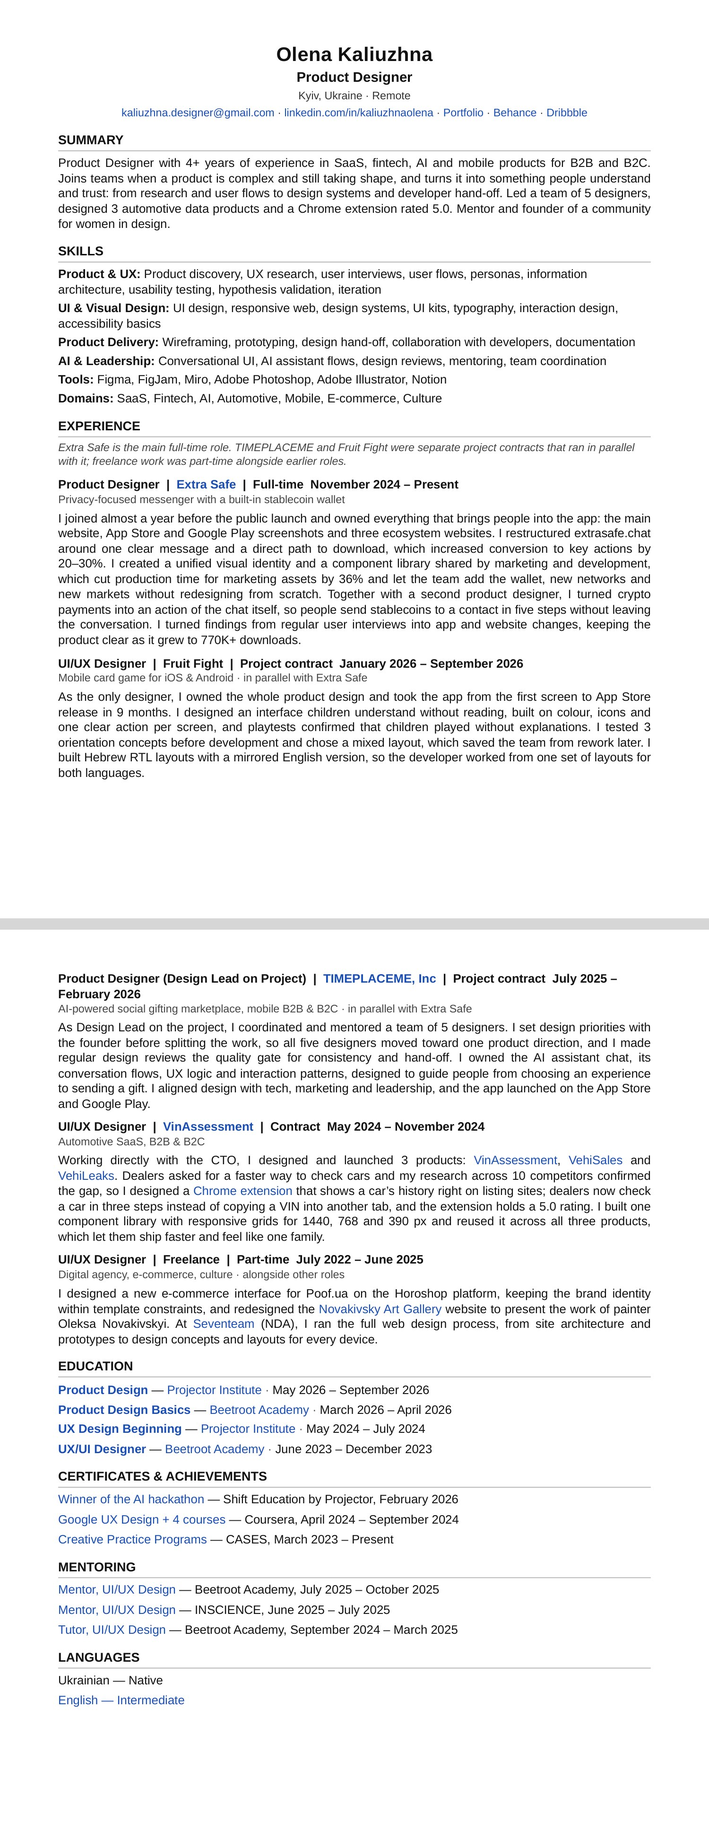
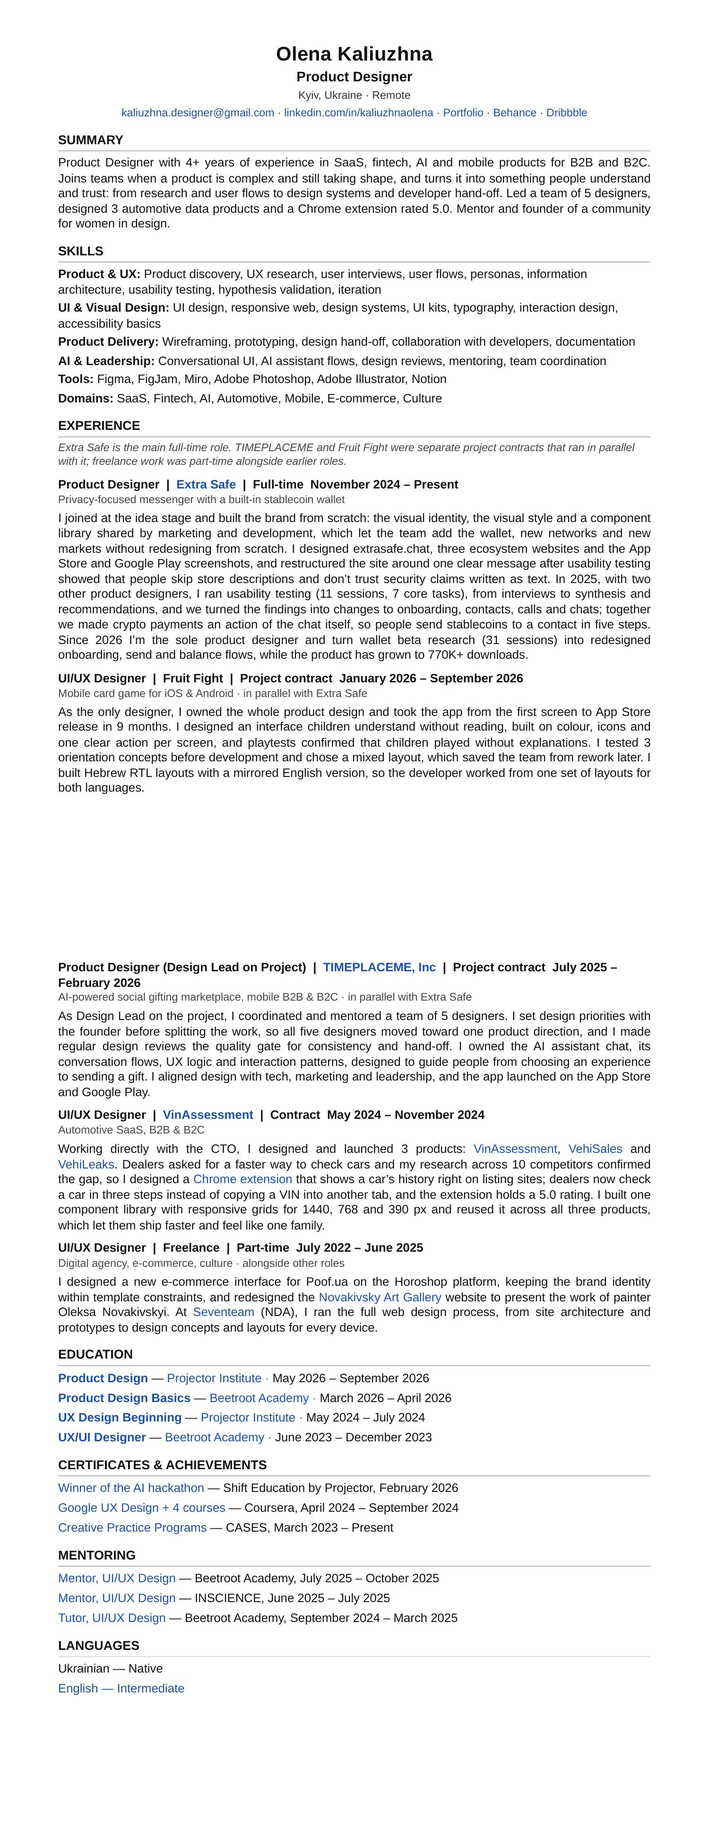
Add files via upload

diff --git a/case-extra-safe.html b/case-extra-safe.html
@@ -8,7 +8,7 @@
 <link rel="preconnect" href="https://fonts.googleapis.com">
 <link rel="preconnect" href="https://fonts.gstatic.com" crossorigin>
 <link rel="stylesheet" href="https://fonts.googleapis.com/css2?family=Inter:wght@400;500;600&family=Onest:wght@500;600&family=JetBrains+Mono:wght@400;500&display=swap">
-<link rel="stylesheet" href="styles.css?v=202610181628">
+<link rel="stylesheet" href="styles.css?v=202610272005">
 <script>try{var t=localStorage.getItem('ok-theme');if(t)document.documentElement.setAttribute('data-theme',t);}catch(e){}</script>
 </head>
 <body>
@@ -31,9 +31,9 @@
     <div class="wrap">
       <div class="crumbs mono"><a href="index.html#work">Cases</a><span>/</span><span>Extra Safe</span></div>
       <h1>Designing clarity across a complex fintech and communication ecosystem</h1>
-      <p class="lede">Extra Safe combines private communication, identity and financial functionality in one product ecosystem. My role was to help make that complexity understandable, consistent and usable across multiple surfaces.</p>
+      <p class="lede">Extra Safe is a privacy-first messenger with a built-in stablecoin wallet. I joined at the idea stage, built its brand from scratch, and today I lead the whole product as its sole designer: app, wallet, websites and design system.</p>
       <div class="chips"><span class="chip">Fintech</span><span class="chip">Product ecosystem</span><span class="chip">UX/UI</span><span class="chip">Design systems</span></div>
-      <div class="facts"><div class="fact"><span class="mono">Role</span><b>Product Designer · product UX, ecosystem, design system</b></div><div class="fact"><span class="mono">Company</span><b>Extra Safe · by Norionsoft OÜ, Estonia</b></div><div class="fact"><span class="mono">Timeline</span><b>Nov 2024 — present</b></div><div class="fact"><span class="mono">Platforms</span><b>Web · iOS · Android · Desktop</b></div></div>
+      <div class="facts"><div class="fact"><span class="mono">Role</span><b>Product Designer · sole designer since 2026</b></div><div class="fact"><span class="mono">Company</span><b>Extra Safe · by Norionsoft OÜ, Estonia</b></div><div class="fact"><span class="mono">Timeline</span><b>Nov 2024 — present</b></div><div class="fact"><span class="mono">Platforms</span><b>Web · iOS · Android · Desktop</b></div></div>
       <div class="ext-links"><a class="btn" href="https://www.extrasafe.chat/" target="_blank" rel="noopener">Visit extrasafe.chat ↗</a><a class="btn ghost store" href="https://apps.apple.com/app/id6745936574" target="_blank" rel="noopener" aria-label="Download Extra Safe on App Store"><svg viewBox="0 0 24 24" fill="none" stroke="currentColor" stroke-width="1.7" stroke-linecap="round" stroke-linejoin="round" aria-hidden="true"><rect x="6.5" y="2.5" width="11" height="19" rx="2.5"/><path d="M12 7.5v7M9 11.8l3 3 3-3"/><path d="M10.5 18.5h3"/></svg>App Store</a><a class="btn ghost store" href="https://play.google.com/store/apps/details?id=com.extrasafe.chat.app" target="_blank" rel="noopener" aria-label="Download Extra Safe on Google Play"><svg viewBox="0 0 24 24" fill="none" stroke="currentColor" stroke-width="1.7" stroke-linejoin="round" aria-hidden="true"><path d="M6 3.8v16.4c0 .8.9 1.3 1.6.9l13-8.2c.6-.4.6-1.3 0-1.7l-13-8.2C6.9 2.5 6 3 6 3.8z"/></svg>Google Play</a></div>
     </div>
   </section>
@@ -45,31 +45,31 @@
     </div>
   </section>
 
-  <nav class="case-nav" aria-label="Case sections"><div class="wrap"><a href="#overview">Overview</a><a href="#challenge">Challenge</a><a href="#decisions">Decisions</a><a href="#solution">Solution</a><a href="#impact">Impact</a><a href="#learnings">Learnings</a></div></nav>
+  <nav class="case-nav" aria-label="Case sections"><div class="wrap"><a href="#overview">Overview</a><a href="#challenge">Challenge</a><a href="#research">Research</a><a href="#decisions">Decisions</a><a href="#solution">Solution</a><a href="#impact">Impact</a><a href="#learnings">Learnings</a></div></nav>
 
   <section style="border-top:0;padding-top:clamp(40px,6vw,72px)">
     <div class="wrap">
       <article class="chapter" id="overview"><header><span class="mono">01</span><h2>Context</h2></header>
         <div class="prose">
-          <p><strong>Extra Safe is a privacy-focused messenger with a built-in stablecoin wallet.</strong> People chat, call and share files with end-to-end encryption, and when they need to pay someone, they send USDT or ETH right in the conversation. No copying wallet addresses, no switching apps.</p>
-          <p>I joined in November 2024, almost a year before the public launch, and stayed with the product as it grew from a private chat with calls into a messenger built on money rails.</p>
+          <p><strong>Extra Safe is a privacy-first messenger with a built-in stablecoin wallet.</strong> People chat, call and share files with end-to-end encryption, and when they need to pay someone, they send USDT and other stablecoins right in the conversation. No copying wallet addresses, no switching apps, no buying a separate coin to pay the network fee.</p>
+          <p>I joined in November 2024, when Extra Safe was an idea and a rough draft. I built the brand from scratch and stayed with the product as it grew from an encrypted chat with calls into a messenger where money moves like a message. Today I'm its sole product designer.</p>
           <ol class="timeline">
-            <li><span class="mono">2024</span><b>I join before launch</b><span>Encrypted chat, voice and video calls. First website and visual language.</span></li>
-            <li><span class="mono">Sep 2025</span><b>Public launch</b><span>iOS and Android apps go live worldwide.</span></li>
-            <li><span class="mono">Dec 2025</span><b>400K+ downloads in 13 weeks</b><span>Encrypted file and image sharing ships.</span></li>
-            <li><span class="mono">2026</span><b>Money in chat</b><span>Built-in wallet: send stablecoins in a message, gas paid in the same token. Collaboration with Ava Labs.</span></li>
+            <li><span class="mono">Nov 2024</span><b>I join at the idea stage</b><span>Brand identity, visual style and the first website, built from scratch.</span></li>
+            <li><span class="mono">2025</span><b>Testing and public launch</b><span>Usability testing with real people, then iOS and Android apps go live worldwide.</span></li>
+            <li><span class="mono">After launch</span><b>400K+ downloads in 10 weeks</b><span>Encrypted file and image sharing ships.</span></li>
+            <li><span class="mono">Sep 2026</span><b>Money in chat</b><span>The wallet goes live: send stablecoins in a message across six networks, with the fee paid in the same token. Collaboration with Ava Labs.</span></li>
             <li><span class="mono">Oct 2026</span><b>770K+ downloads, desktop</b><span>Windows and macOS apps, 9 languages, users in many countries.</span></li>
           </ol>
         </div></article>
 
       <article class="chapter" id="challenge"><header><span class="mono">02</span><h2>The challenge</h2></header>
         <div class="prose">
-          <p>The product combined several complex concepts — private communication, wallet functionality, identity and financial actions — across different platforms. <strong>The challenge was not to design individual screens, but to create one coherent experience people could understand and trust.</strong></p>
-          <p>And the ground kept moving. Every few months a new layer appeared: calls, file sharing, a wallet, private balances, cross-chain swaps.</p>
+          <p>Extra Safe asks people for two kinds of trust at once: trust with their conversations and trust with their money. Most people don't read security claims and don't know what P2P encryption or a seed phrase is. <strong>The challenge was not to design individual screens, but to make a complex, high-stakes product feel obvious and safe.</strong></p>
+          <p>And the ground kept moving. Every few months a new layer appeared: calls, file sharing, a wallet, private balances, new networks.</p>
           <div class="cx-grid" aria-label="Where the complexity came from">
             <div><b>Multiple platforms</b><span>Web · iOS · Android · Desktop</span></div>
             <div><b>Multiple user contexts</b><span>Chatting, calling, paying, learning about crypto</span></div>
-            <div><b>Financial functionality</b><span>Self-custody, networks, gas, stablecoins</span></div>
+            <div><b>Financial functionality</b><span>Self-custody, networks, fees, stablecoins</span></div>
             <div><b>Privacy and security</b><span>End-to-end encryption, trust with money and messages</span></div>
             <div><b>Shared design language</b><span>App, main site and three sister products</span></div>
           </div>
@@ -77,27 +77,49 @@
 
       <article class="chapter" id="role"><header><span class="mono">03</span><h2>My role</h2></header>
         <div class="prose">
-          <p>I worked across product UX/UI, ecosystem websites, app flows, wallet-related experiences, marketing surfaces and the design system, collaborating with product, engineering, marketing and other stakeholders.</p>
+          <p>I joined when the product was an idea and built its brand from the ground up. The app was first designed by another designer. In 2025 we were three product designers working on flows and research together. <strong>Since 2026 I'm the sole product designer and lead the whole product myself.</strong></p>
           <div class="own">
-            <div><span class="mono">I owned</span><ul>
+            <div><span class="mono">I built from scratch</span><ul>
+              <li>The visual identity and visual style of Extra Safe</li>
+              <li>The component library shared by marketing and development</li>
               <li>The main website, extrasafe.chat: structure, navigation, content hierarchy and responsive layouts</li>
               <li>The websites of the wider ecosystem: Norionsoft, UGTP and EXTRA WALLET</li>
-              <li>The visual identity and the component library shared by marketing and development</li>
-              <li>App Store and Google Play screenshots, blog and Knowledge Hub visuals</li>
             </ul></div>
-            <div><span class="mono">I shared</span><ul>
-              <li>App flows and logic, together with a second product designer, including how money is sent inside a chat</li>
-              <li>Regular user interviews and turning their findings into product and website changes</li>
+            <div><span class="mono">I lead today</span><ul>
+              <li>App and wallet flows, from research findings to prototypes and specs for development</li>
+              <li>Redesigns of every flow where research showed confusion</li>
+              <li>App Store and Google Play screenshots, blog and Knowledge Hub visuals</li>
             </ul></div>
           </div>
         </div></article>
 
-      <article class="chapter" id="found"><header><span class="mono">04</span><h2>What we found</h2></header>
+      <article class="chapter" id="research"><header><span class="mono">04</span><h2>Research loop</h2></header>
         <div class="prose">
-          <div class="mini-steps"><span><b>01</b>Interview users</span><span><b>02</b>Synthesise</span><span><b>03</b>Change the product</span><span><b>04</b>Ship &amp; measure</span></div>
-          <p>We regularly interviewed users, brought the findings together and turned them into concrete changes in the app and on the website. Each round fed the next release.</p>
-          <p>The biggest shift came from this loop. The first versions were a classic secure messenger. As we learned how people actually used it, the product moved toward payments.</p>
-          <blockquote class="insight"><span class="mono">Key insight</span><p>The wallet works on its own, but its real point is sending money to a person the same way you send a message. And when money and private messages live in one app, every label, confirmation and empty state either builds trust or breaks it.</p></blockquote>
+          <div class="mini-steps"><span><b>01</b>Test with people</span><span><b>02</b>Synthesise</span><span><b>03</b>Change the product</span><span><b>04</b>Test again</span></div>
+          <p>We don't run research once. We test, change the product, then test again with people who already use the app, and repeat. Two studies show how this works.</p>
+
+          <h3 class="sub">Usability testing before launch · 2025</h3>
+          <p>We were three product designers. Together we built personas, wrote the interview script and tasks, ran the sessions and synthesised the results. I took part at every stage: I interviewed participants, took notes, synthesised findings task by task and co-presented the recommendations to the team.</p>
+          <p>We shortlisted 24 people against our personas and ran 11 sessions: a short interview, then 7 tasks across the core flows, from finding the app in the App Store to sending an invite link.</p>
+          <div class="results">
+            <div class="stat"><b>8 of 11</b><span>didn't read the App Store description, and 5 said it didn't help them feel safe</span></div>
+            <div class="stat"><b>8 of 11</b><span>pressed the Link button expecting to add a contact</span></div>
+            <div class="stat"><b>8 of 11</b><span>saw the encryption banner and felt no safer</span></div>
+            <div class="stat"><b>10 of 11</b><span>couldn't tell Calls from Meetings</span></div>
+            <div class="stat"><b>6 of 11</b><span>disliked messages disappearing by default</span></div>
+            <div class="stat"><b>4 of 11</b><span>said they would stop using the app at that point</span></div>
+          </div>
+          <blockquote class="insight"><span class="mono">Key insight</span><p>People don't trust text. Trust has to be built before someone opens the app, then confirmed by a product that feels obvious. The findings became a round of changes to onboarding, contacts, calls, chats and security messaging, and shaped my work on the website and the store pages.</p></blockquote>
+
+          <h3 class="sub">Beta research for the wallet · 2026</h3>
+          <p>Our team ran 31 beta sessions with real users. We synthesised the results together, and as the sole product designer I turn them into redesigned flows.</p>
+          <ul class="insights">
+            <li><b>Price looked like balance</b>4 of 6 testers mistook the token price for the money they hold.</li>
+            <li><b>Private tokens were unclear</b>Only 1 in 10 people understood them without help.</li>
+            <li><b>No sign the money arrived</b>People left the send screen without knowing whether the transfer landed.</li>
+            <li><b>Sending from chat went unnoticed</b>Many didn't know they could send money right from a conversation.</li>
+          </ul>
+          <p><strong>What I'm redesigning from it:</strong> simpler wallet onboarding; a send flow that shows who you're paying and the full fee before you confirm; a notice when money arrives; a wallet screen that shows the balance, not the price; the blog, help centre and community reachable from inside the app.</p>
         </div></article>
 
       <article class="chapter" id="decisions"><header><span class="mono">05</span><h2>Key design decisions</h2></header>
@@ -106,28 +128,28 @@
             <article class="decision">
               <span class="mono">Decision 01</span><h3>Keep payments inside the conversation</h3>
               <dl>
-                <div><dt>Problem</dt><dd>Paying someone in crypto meant copying wallet addresses and switching apps, which is slow and easy to get wrong.</dd></div>
-                <div><dt>Decision</dt><dd>Together with the product designer, we made sending money an action of the chat itself: next to the message field, with the transfer showing up as a message.</dd></div>
+                <div><dt>Problem</dt><dd>Paying someone in crypto meant copying wallet addresses, switching apps and buying a separate coin for the network fee: slow and easy to get wrong.</dd></div>
+                <div><dt>Decision</dt><dd>We made sending money an action of the chat itself: next to the message field, with the transfer showing up as a message and the fee paid in the same stablecoin.</dd></div>
                 <div><dt>Why</dt><dd>That is how people actually used the wallet: to pay a person they were already talking to.</dd></div>
                 <div><dt>Result</dt><dd>Sending money became one flow of five steps without leaving the conversation, and the centre of the product.</dd></div>
               </dl>
             </article>
             <article class="decision">
-              <span class="mono">Decision 02</span><h3>Restructure the website around one message</h3>
+              <span class="mono">Decision 02</span><h3>Build trust before the app opens</h3>
               <dl>
-                <div><dt>Problem</dt><dd>The product had many layers — chat, calls, wallet, a blog, a Knowledge Hub — and the website had to explain it to people who had never heard of it.</dd></div>
-                <div><dt>Decision</dt><dd>I restructured extrasafe.chat around a clear content hierarchy: one message, “the first messenger built on money rails”, and a clear path to download.</dd></div>
-                <div><dt>Why</dt><dd>Visitors decide fast. Navigation and content clarity mattered more than showing every feature.</dd></div>
-                <div><dt>Result</dt><dd><strong>~20–30% increase</strong> in conversion to key actions.</dd></div>
+                <div><dt>Problem</dt><dd>Testing showed that people skip store descriptions and don't trust security claims written as text.</dd></div>
+                <div><dt>Decision</dt><dd>I restructured extrasafe.chat around one message, “the first messenger built on money rails”, with a clear hierarchy and one next step. The store screenshots got the same approach: show how the product protects you, not a list of features.</dd></div>
+                <div><dt>Why</dt><dd>People arrive with an opinion already formed. The website and the store page are where trust starts.</dd></div>
+                <div><dt>Result</dt><dd>One clear story from the first screen to the download button, used across the site, the stores and marketing.</dd></div>
               </dl>
             </article>
             <article class="decision">
               <span class="mono">Decision 03</span><h3>One system for the whole ecosystem</h3>
               <dl>
-                <div><dt>Problem</dt><dd>The app, the main site, three sister products and a steady stream of marketing visuals risked feeling like separate brands, and producing them slowed the team down.</dd></div>
-                <div><dt>Decision</dt><dd>I introduced a unified visual identity and a component library shared by marketing and development.</dd></div>
+                <div><dt>Problem</dt><dd>The app, the main site, three sister products and a steady stream of marketing visuals risked feeling like separate brands.</dd></div>
+                <div><dt>Decision</dt><dd>I built a unified visual identity and a component library shared by marketing and development.</dd></div>
                 <div><dt>Why</dt><dd>A product that changes every few months needs a system, not one-off pages.</dd></div>
-                <div><dt>Result</dt><dd><strong>~36% less time</strong> to produce marketing assets. The wallet, new networks and new markets were added without redrawing everything.</dd></div>
+                <div><dt>Result</dt><dd>Marketing builds new assets from ready components instead of drawing from scratch. The wallet, new networks and new markets were added without redrawing everything.</dd></div>
               </dl>
             </article>
           </div>
@@ -139,8 +161,8 @@
           <ol class="flow">
             <li><b>Open a chat</b><span>with a contact</span></li>
             <li><b>Tap send money</b><span>next to the message field</span></li>
-            <li><b>Pick a token</b><span>USDT, ETH and other stablecoins</span></li>
-            <li><b>Enter the amount</b><span>gas paid in the same token</span></li>
+            <li><b>Pick a token</b><span>USDT and other stablecoins</span></li>
+            <li><b>Enter the amount</b><span>the fee is paid in the same token</span></li>
             <li><b>Confirm</b><span>the transfer appears as a message</span></li>
           </ol>
           <h3 class="sub">The ecosystem</h3>
@@ -154,10 +176,10 @@
 
       <article class="chapter" id="collaboration"><header><span class="mono">07</span><h2>Collaboration</h2></header>
         <div class="prose">
-          <p>Design sits in the middle of a large team. I worked every day with developers and QA on what is buildable, with copywriters and marketing on how the product explains itself, and with a second product designer on the app.</p>
+          <p>Design sits in the middle of the team. I work every day with the founders and the product manager on priorities, with developers and QA on what is buildable, and with copywriters and marketing on how the product explains itself.</p>
           <div class="team">
             <span class="mono">Who I work with every day</span>
-            <div class="chips"><span class="chip">Developers</span><span class="chip">QA engineers</span><span class="chip">Copywriters</span><span class="chip">Marketing managers</span><span class="chip">Performance &amp; ads</span><span class="chip">Team leads</span><span class="chip">Project managers</span><span class="chip">Product designer</span></div>
+            <div class="chips"><span class="chip">Founders</span><span class="chip">Product manager</span><span class="chip">Developers</span><span class="chip">QA engineers</span><span class="chip">Copywriters</span><span class="chip">Marketing</span><span class="chip">Team leads</span></div>
           </div>
         </div></article>
 
@@ -165,27 +187,26 @@
         <div class="prose">
           <span class="mono group-label">What my work changed</span>
           <div class="results results-2">
-            <div class="stat"><b>~20–30%</b><span>increase in conversion to key actions after the website restructure</span></div>
-            <div class="stat"><b>~36%</b><span>less time to produce marketing assets with the shared system</span></div>
+            <div class="stat"><b>From scratch</b><span>brand, visual style and component library that every Extra Safe product and campaign now uses</span></div>
+            <div class="stat"><b>2 studies</b><span>turned into product changes: usability testing before launch and wallet beta research</span></div>
           </div>
           <span class="mono group-label">How the product grew while I was on the team</span>
           <div class="results">
             <div class="stat"><b>770K+</b><span>downloads on iOS and Android</span></div>
-            <div class="stat"><b>400K+</b><span>downloads in the first 13 weeks after launch</span></div>
+            <div class="stat"><b>400K+</b><span>downloads in the first 10 weeks after launch</span></div>
             <div class="stat"><b>1.7M+</b><span>messages sent every week</span></div>
             <div class="stat"><b>−88%</b><span>paid marketing spend while growth held</span></div>
-            <div class="stat"><b>4.4 ★</b><span>App Store rating · 4.1 ★ on Google Play</span></div>
+            <div class="stat"><b>4.1 ★</b><span>rating on Google Play</span></div>
             <div class="stat"><b>9</b><span>languages, with users in countries around the world</span></div>
           </div>
-          <p class="source">Product figures: <a href="https://www.extrasafe.chat/press" target="_blank" rel="noopener">Extra Safe press page</a>, <a href="https://www.extrasafe.chat/blog/extra-safe-app-reaches-400000-downloads-in-just-ten-weeks" target="_blank" rel="noopener">launch milestone post</a>, App Store and Google Play listings, October 2026. These are product results of the whole team.</p>
+          <p class="source">Product figures: <a href="https://www.extrasafe.chat/press" target="_blank" rel="noopener">Extra Safe press page</a>, <a href="https://www.extrasafe.chat/blog/extra-safe-app-reaches-400000-downloads-in-just-ten-weeks" target="_blank" rel="noopener">launch milestone post</a>, Google Play listing, October 2026. These are product results of the whole team. Research figures come from our own usability sessions.</p>
         </div></article>
 
       <article class="chapter" id="learnings"><header><span class="mono">09</span><h2>What I learned</h2></header>
         <div class="prose">
-          <p><strong>Complex products rarely become simple by removing information alone.</strong> The more important work is deciding what people need to understand now, what can wait, and how the system stays consistent as the product grows.</p>
-          <p><strong>Talking to users beats guessing.</strong> The move from “secure messenger” to “money in chat” came from listening to how people actually used the product.</p>
-          <h3 class="sub">What I would do next</h3>
-          <p>With more product data, I would keep validating the highest-friction flows and prioritise improvements by user behaviour rather than visual polish alone.</p>
+          <p><strong>In fintech, clarity is a security feature.</strong> A vague label costs more than a missing feature: when money and private messages live in one app, every label, confirmation and empty state either builds trust or breaks it.</p>
+          <p><strong>Research works as a habit, not a project.</strong> Test, change, test again. The move from “secure messenger” to “money in chat” came from watching how people actually used the product.</p>
+          <p><strong>A design system is a business tool.</strong> It decides how fast a company can say yes to a new feature or a new market.</p>
         </div></article>
 
     </div>
